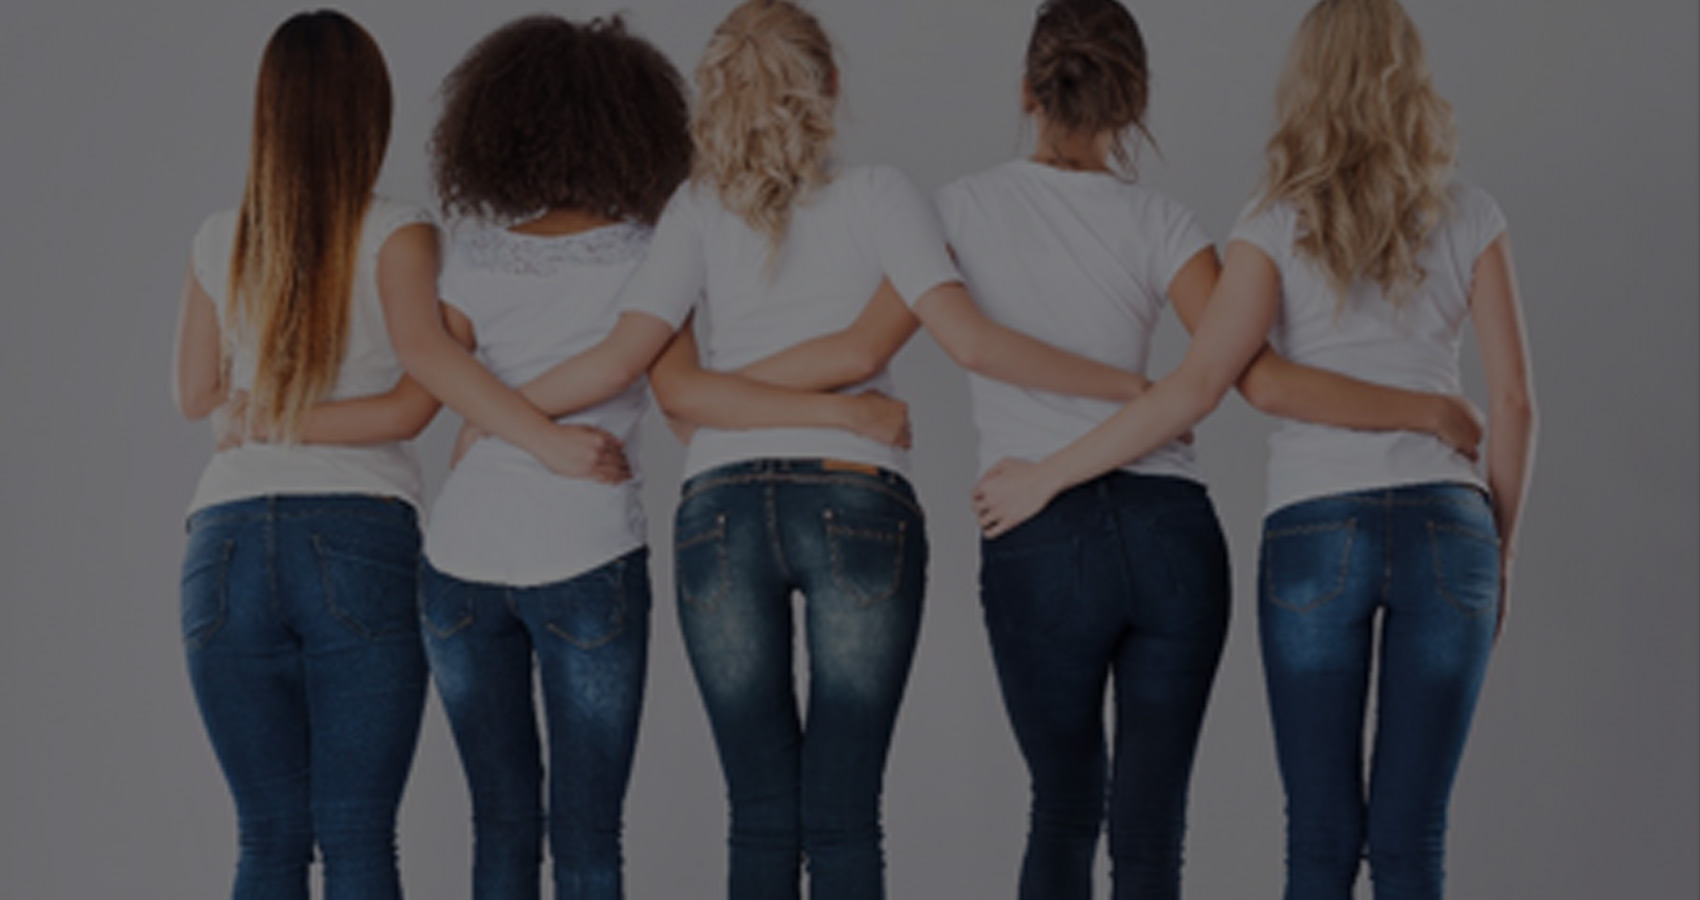
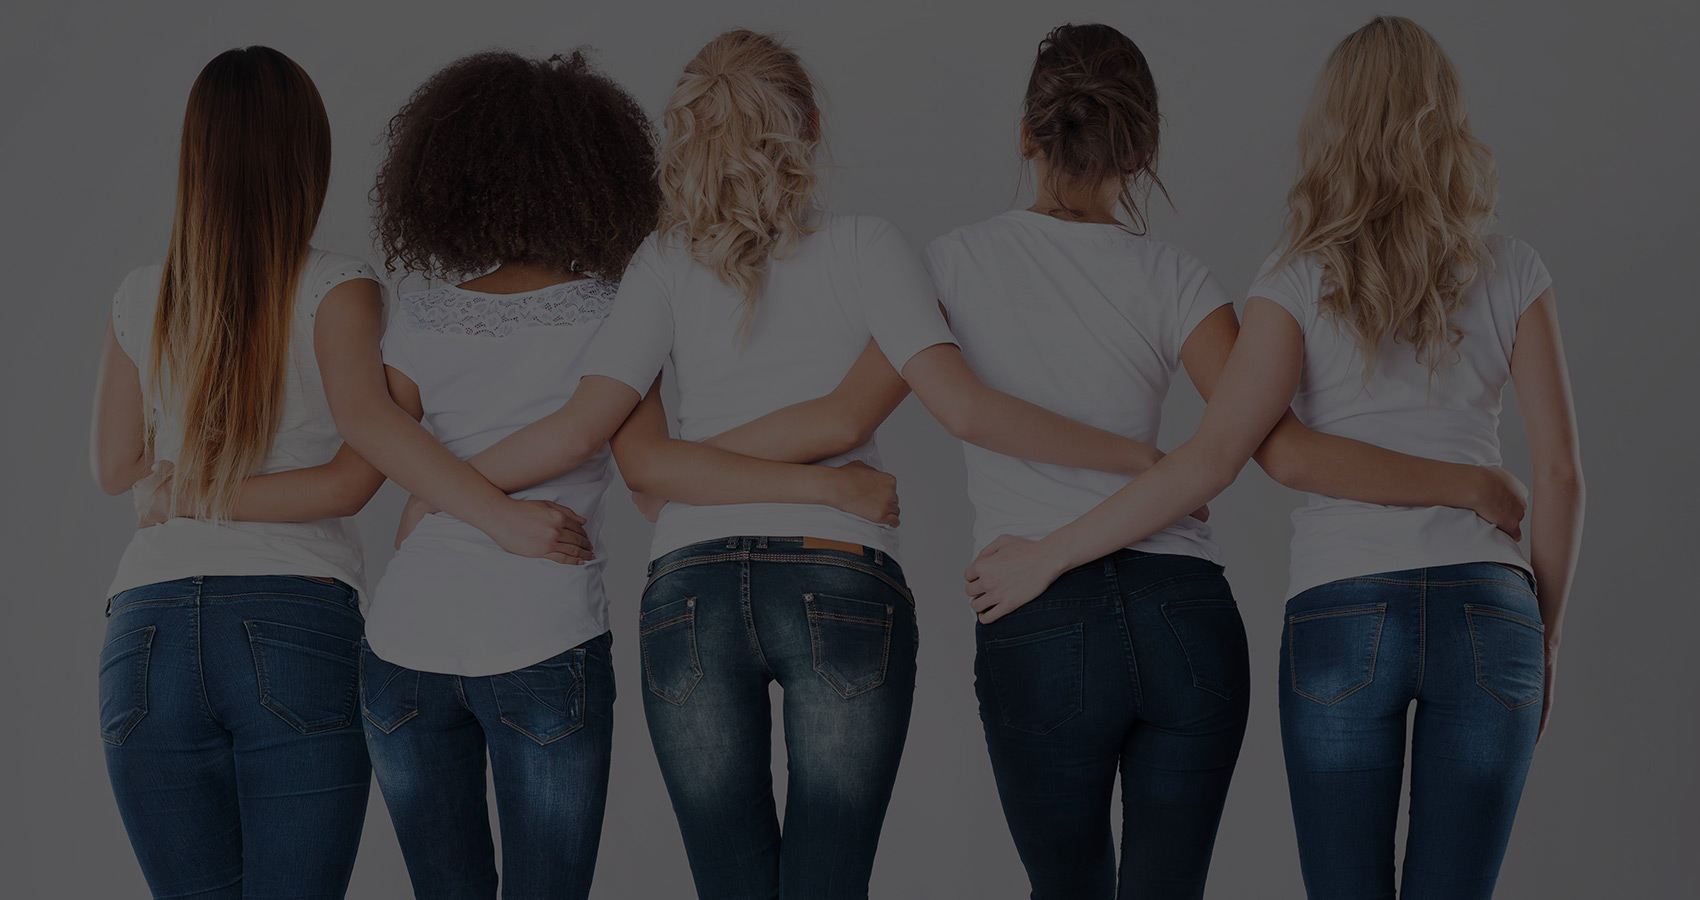
Added in menu items and smooth scroll

diff --git a/app/_includes/pzi/win-it.html b/app/_includes/pzi/win-it.html
@@ -3,11 +3,21 @@
     <h1 class="section-headline">Are You In It to Win It?</h1>
     <h2 class="sub-head">Get started with your Commit to Lean package today for a chance to win a pair of victory jeans from the connoisseurs of blue jean craftsmanship for curves, PZI Jeans!</h2>
     <img class="logo-pzi" src="../images/logo/logo-pzi.png" title="PZI Jeans">
-    <h3>Entering is easy:</h3>
+    <h3 class="sub-head">Entering is easy:</h3>
+
     <ul class="triptych">
-      <li class="item">Purchase your Commit to Lean <strong>three month challenge pack</strong> by August 15th</li>
-      <li class="item">We will team you up with a personal Nutrition coach who will help you stay on track with dietary goals</li>
-      <li class="item">Use hashtag <span class="hashtag">#gmmvictoryjeans</span> to share the story of your journey on Twitter, Facebook, Instagram and Pintrest.</li>
+      <li class="item">
+        <span class="number">1</span>
+        <p>Purchase your Commit to Lean <strong>three month challenge pack</strong> by August 15th</p>
+      </li>
+      <li class="item">
+        <span class="number">2</span>
+        <p>We will team you up with a personal Nutrition coach who will help you stay on track with dietary goals</p>
+      </li>
+      <li class="item">
+        <span class="number">3</span>
+        <p>Use hashtag <span class="hashtag">#gmmvictoryjeans</span> to share the story of your journey on Twitter, Facebook, Instagram and Pintrest.</p>
+      </li>
     </ul>
   </div>
 </section>

diff --git a/app/_layouts/default.html b/app/_layouts/default.html
@@ -23,7 +23,14 @@
         <a href="/" title="Good Measure Meals™">
           <h1 id="logo-header" class="logo">Good Measure Meals™</h1>
         </a>
-        {% if page.body_class != "pzi" %}
+        {% if page.body_class == "pzi" %}
+        <nav class="nav-primary">
+          <a class="nav-item scroll-link" title="The Rules" href="#rules">The Rules</a>
+          <a class="nav-item scroll-link" title="The Challenge Pack" href="#challenge">The Challenge Pack</a>
+          <a class="nav-item scroll-link" title="Real Stories" href="#relationship">Real Stories</a>
+          <a class="nav-item scroll-link" title="GMM Difference" href="#difference">GMM Difference</a>
+        </nav>
+        {% else %}
         <nav class="nav-primary">
           <a class="nav-item scroll-link" title="Eat Well " href="#eat-well">Eat Well </a>
           <a class="nav-item scroll-link" title="Stay Healthy" href="#stay-healthy">Stay Healthy</a>

diff --git a/app/_includes/pzi/challenge.html b/app/_includes/pzi/challenge.html
@@ -1,6 +1,6 @@
-<section class="page-content challenge">
+<section id="challenge" class="page-content challenge">
   <div class="container">
-    <h1 class="section-headline">3 Month Challenge Pack! <span>You get three months of healthy meals</span></h1>
+    <h1 class="section-headline">3 Month Challenge Pack! </h1>
     <p>First Month: 7 days a week, 3 meals a day.</p>
     <p>Months 2 &amp; 3: 5 days a week, 3 meals a day PLUS One Comprehensive Nutrition Consult and Body Composition Analysis with a Registered Dietitian AND Two follow-up Body Composition Analyses with a Registered Dietitian.</p>
 

diff --git a/app/styles/pages/pzi/_win-it.scss b/app/styles/pages/pzi/_win-it.scss
@@ -11,10 +11,29 @@
 
     @include media($medium) {
       max-width: 350px;
+      padding: 2.5em 0;
     }
   }
 
   .hashtag {
     color: $blue;
+  }
+
+  .triptych {
+    padding: 2em 0 0;
+
+    .item {
+      padding: 0 1em;
+
+      .number {
+        float: left;
+        font-family: 'Amatic SC', cursive;
+        font-size: 5em;
+        font-weight: 900;
+        line-height: 1;
+        margin-right: .25em;
+        text-align: center;
+      }
+    }
   }
 }

diff --git a/app/styles/_global.scss b/app/styles/_global.scss
@@ -46,7 +46,7 @@ body {
     display: none;
 
     @include media($medium) {
-      @include span-columns(8);
+      @include span-columns(10);
       display: block;
       float: right;
       overflow: hidden;
@@ -271,10 +271,11 @@ body {
 }
 
 .sub-head {
-  text-transform: uppercase;
-  font-size: .75em;
-  max-width: 38rem;
-  margin: 0 auto 2.5em;
+  font-size: 1.25em;
+  font-weight: 100;
+  margin: 0 auto .5em;
+  max-width: 52rem;
+  text-align: center;
 }
 
 

diff --git a/app/styles/pages/pzi/_hero.scss b/app/styles/pages/pzi/_hero.scss
@@ -7,8 +7,8 @@
     text-align: center;
 
     @include media($medium) {
-      padding: 8em 1em;
-      height:95vh;
+      padding: 7em 1em;
+      height:100vh;
     }
 
     @include media($large) {
@@ -17,7 +17,7 @@
 
     .hero-subhead {
       font-family: 'Amatic SC', cursive;
-      font-size: 1.5em;
+      font-size: 2.5em;
       margin-bottom: .25em;
     }
 

diff --git a/app/_includes/pzi/difference.html b/app/_includes/pzi/difference.html
@@ -1,4 +1,4 @@
-<section class="triptych page-content difference">
+<section id="difference" class="triptych page-content difference">
   <div class="container">
     <h1 class="section-headline">So what makes Good Measure Meals<sup>™</sup> so different?</h1>
     <h2 class="sub-head">And what’s the skinny on this Commit to Lean movement anyway?</h2>

diff --git a/app/_includes/pzi/relationship.html b/app/_includes/pzi/relationship.html
@@ -1,4 +1,4 @@
-<section class="page-content relationship">
+<section id="relationship" class="page-content relationship">
   <div class="container">
     <h1 class="section-headline">We all have our story. What’s Yours?</h1>
 

diff --git a/app/_includes/pzi/rules.html b/app/_includes/pzi/rules.html
@@ -1,4 +1,4 @@
-<section class="page-content rules">
+<section id="rules" class="page-content rules">
   <div class="container">
     <h1 class="section-headline">Contest Rules</h1>
     <p>Placeholder for contest rules copy</p>
